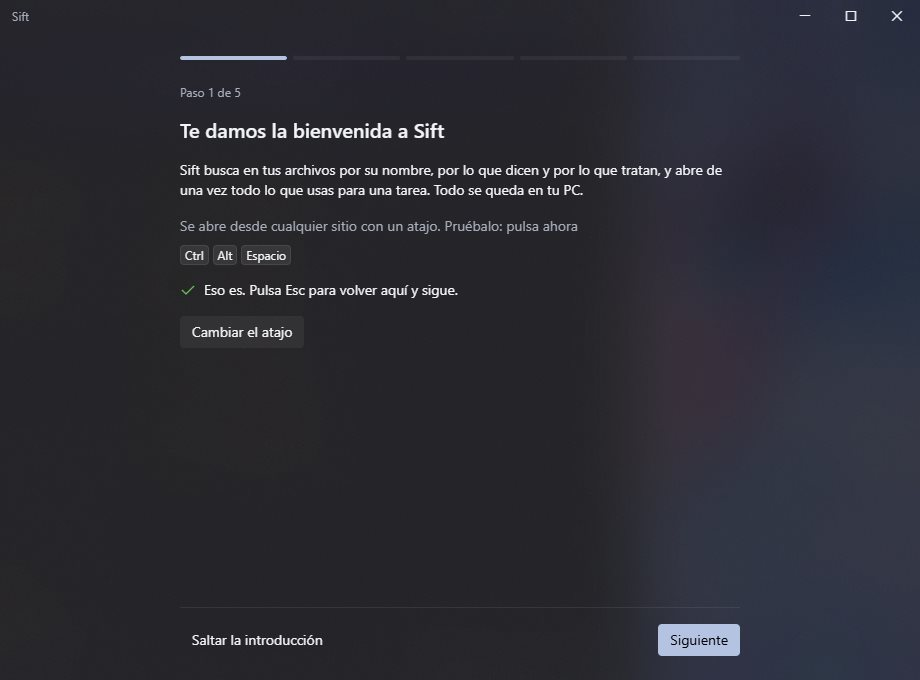
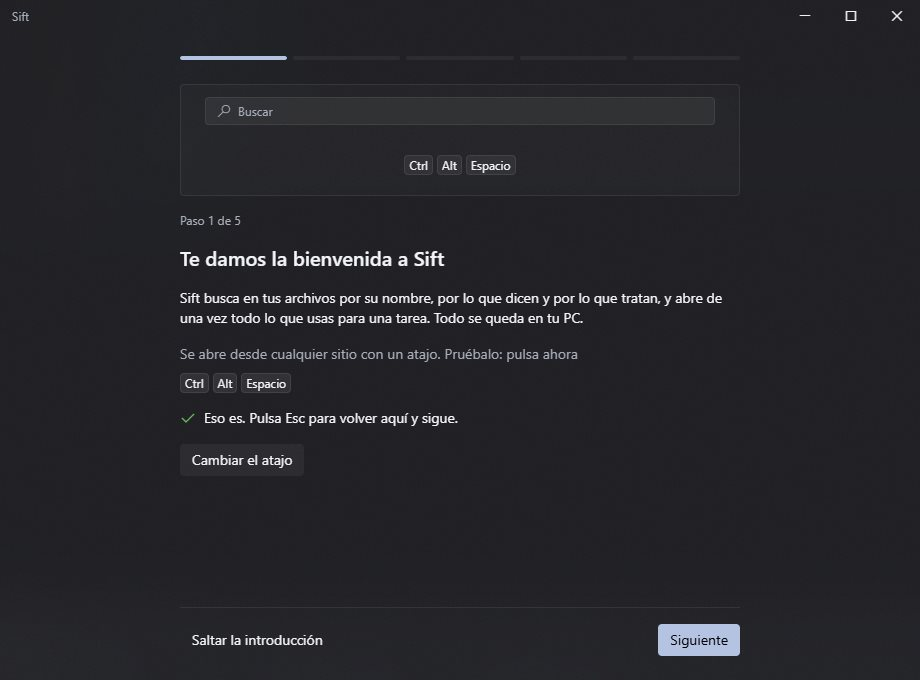
feat: one short illustration per intro step, played once

Changed region(s): [[0.7, 0.0, 1.0, 1.0], [0.1826, 0.1235, 0.7913, 0.6485], [0.213, 0.6485, 0.3043, 0.6794]]

diff --git a/apps/desktop/src/settings/IntroArt.tsx b/apps/desktop/src/settings/IntroArt.tsx
@@ -1,0 +1,182 @@
+// Una ilustración corta por paso de la introducción (FEEDBACK 2026-11-19, 6c): se ve una
+// vez al entrar en el paso (menos de 1,6 s) y se queda en su último fotograma. Solo
+// opacidad y transformaciones; con «reducir movimiento», directamente el último fotograma.
+// Es decorativa (`aria-hidden`): lo que cuenta ya lo dicen el título y el texto.
+
+import { useEffect, useState, type CSSProperties } from "react";
+import { Glyph } from "../components/Glyph";
+import type { IntroStepId } from "./introSteps";
+
+/** Retraso de cada pieza, en ms (`--d` en `.sift-art`). */
+const at = (ms: number) => ({ "--d": `${ms}ms` }) as CSSProperties;
+
+function reducedMotion(): boolean {
+  return (
+    typeof window !== "undefined" &&
+    typeof window.matchMedia === "function" &&
+    window.matchMedia("(prefers-reduced-motion: reduce)").matches
+  );
+}
+
+/**
+ * Recorre `frames` uno a uno: el segundo a los `delay` ms y los demás cada `every` ms.
+ * Con «reducir movimiento», el último desde el principio.
+ */
+export function useTicker<T>(
+  frames: T[],
+  delay: number,
+  every: number,
+): T | undefined {
+  const [i, setI] = useState(() => (reducedMotion() ? frames.length - 1 : 0));
+  useEffect(() => {
+    if (reducedMotion()) return;
+    const timers = frames
+      .slice(1)
+      .map((_, k) => setTimeout(() => setI(k + 1), delay + k * every));
+    return () => timers.forEach(clearTimeout);
+    // Los fotogramas son fijos para cada paso: solo se reproduce al montar.
+    // eslint-disable-next-line react-hooks/exhaustive-deps
+  }, []);
+  return frames[i];
+}
+
+/** Paso 1: las teclas del atajo se hunden por turnos y baja la barra. */
+function HotkeyArt({ keys }: { keys: string[] }) {
+  return (
+    <>
+      <div
+        className="sift-art-drop absolute inset-x-6 top-3 flex h-7 items-center gap-2 rounded-item border border-line bg-hover px-3 text-xs text-muted"
+        style={at(750)}
+      >
+        <Glyph name="search" className="text-xs" />
+        Buscar
+      </div>
+      <div className="absolute inset-x-0 bottom-5 flex justify-center gap-1">
+        {keys.map((k, i) => (
+          <kbd
+            key={i}
+            className="sift-key sift-art-press"
+            style={at(100 + i * 150)}
+          >
+            {k}
+          </kbd>
+        ))}
+      </div>
+    </>
+  );
+}
+
+const COUNT = [0, 96, 241, 418, 655, 902, 1103, 1284].map(
+  (n) => `${n.toLocaleString("es-ES")} archivos`,
+);
+
+/** Paso 2: tres carpetas llegan volando y sube el contador. */
+function FoldersArt() {
+  const count = useTicker(COUNT, 300, 120);
+  return (
+    <>
+      <div className="absolute inset-y-0 left-8 flex items-center gap-6 text-xl text-accent-ink">
+        {[0, 1, 2].map((i) => (
+          <span key={i} className="sift-art-fly" style={at(100 + i * 200)}>
+            <Glyph name="folder" className="text-2xl" />
+          </span>
+        ))}
+      </div>
+      <span className="absolute right-5 bottom-4 text-sm tabular-nums">
+        {count}
+      </span>
+    </>
+  );
+}
+
+const WORD = "factura";
+const TYPED = Array.from({ length: WORD.length + 1 }, (_, i) =>
+  WORD.slice(0, i),
+);
+
+/** Paso 3: se escribe «factura» y caen tres resultados. */
+function SearchArt() {
+  const typed = useTicker(TYPED, 150, 90);
+  return (
+    <>
+      <div className="absolute inset-x-6 top-3 flex h-7 items-center gap-2 rounded-item border border-line bg-hover px-3 text-xs">
+        <Glyph name="search" className="text-xs text-muted" />
+        {typed}
+      </div>
+      {[0, 1, 2].map((i) => (
+        <div
+          key={i}
+          className="sift-art-fall absolute left-6 h-3 rounded-[2px] bg-selected"
+          style={{ ...at(900 + i * 150), top: 52 + i * 20, right: 24 + i * 40 }}
+        />
+      ))}
+    </>
+  );
+}
+
+/** Paso 4: una línea une «viaje» con «billetes de tren.pdf». */
+function SmartArt() {
+  return (
+    <div className="absolute inset-0 flex items-center justify-center gap-2 text-sm">
+      <span>«viaje»</span>
+      <span
+        className="sift-art-grow h-0.5 w-12 origin-left bg-accent"
+        style={at(500)}
+      />
+      <span
+        className="sift-art-fade flex items-center gap-1 rounded-item bg-selected px-2 py-1 text-xs"
+        style={at(1000)}
+      >
+        <Glyph name="document" className="text-xs" />
+        billetes de tren.pdf
+      </span>
+    </div>
+  );
+}
+
+/** Paso 5: la tarjeta de un Espacio se abre en tres ventanas colocadas. */
+function SpaceArt() {
+  return (
+    <>
+      <div className="absolute inset-0 flex items-center justify-center">
+        <div
+          className="sift-art-open flex items-center gap-2 rounded-item border border-line bg-hover px-3 py-1.5 text-xs"
+          style={at(200)}
+        >
+          <Glyph name="apps" className="text-xs" />
+          Trabajo
+        </div>
+      </div>
+      <div className="absolute inset-2 grid grid-cols-2 grid-rows-2 gap-2">
+        <span
+          className="sift-art-window-l row-span-2 rounded-[4px] border border-accent bg-selected"
+          style={at(550)}
+        />
+        <span
+          className="sift-art-window-r rounded-[4px] border border-accent bg-selected"
+          style={at(700)}
+        />
+        <span
+          className="sift-art-window-r rounded-[4px] border border-accent bg-selected"
+          style={at(850)}
+        />
+      </div>
+    </>
+  );
+}
+
+export function IntroArt({ id, keys }: { id: IntroStepId; keys: string[] }) {
+  return (
+    <div
+      aria-hidden
+      data-art={id}
+      className="sift-art relative h-28 overflow-hidden rounded-item border border-line bg-hover/40"
+    >
+      {id === "hotkey" && <HotkeyArt keys={keys} />}
+      {id === "folders" && <FoldersArt />}
+      {id === "search" && <SearchArt />}
+      {id === "smart" && <SmartArt />}
+      {id === "space" && <SpaceArt />}
+    </div>
+  );
+}

diff --git a/apps/desktop/src/index.css b/apps/desktop/src/index.css
@@ -73,6 +73,7 @@
   --dur-veil-out: 260ms;
   --dur-enter: 120ms;
   --dur-step: 200ms; /* cambio de paso en la introducción */
+  --dur-art: 350ms; /* cada pieza de las ilustraciones de la introducción */
   --stagger: 70ms; /* entre la explicación y la acción de un paso, tras el título */
   --dur-state: 150ms; /* cambios de estado: coger, soltar, pasar el ratón, pulsar (el «fast» de Fluent) */
   --dur-exit: 80ms;
@@ -400,6 +401,81 @@ body,
   }
 }
 
+/*
+ * Ilustraciones de la introducción (IntroArt.tsx): cada pieza entra una vez con su retraso
+ * (`--d`) y se queda en su sitio. Solo opacidad y transformaciones.
+ */
+.sift-art [class*="sift-art-"] {
+  animation-duration: var(--dur-art);
+  animation-timing-function: var(--ease-enter);
+  animation-fill-mode: both;
+  animation-delay: var(--d, 0ms);
+}
+.sift-art-press {
+  animation-name: sift-art-press;
+}
+.sift-art-drop {
+  animation-name: sift-art-drop;
+}
+.sift-art-fly {
+  animation-name: sift-art-fly;
+}
+.sift-art-fall {
+  animation-name: sift-art-drop;
+}
+.sift-art-grow {
+  animation-name: sift-fill;
+}
+.sift-art-fade {
+  animation-name: sift-exit;
+  animation-direction: reverse;
+}
+.sift-art-open {
+  animation-name: sift-art-open;
+}
+.sift-art-window-l {
+  animation-name: sift-art-window-l;
+}
+.sift-art-window-r {
+  animation-name: sift-art-window-r;
+}
+@keyframes sift-art-press {
+  50% {
+    transform: translateY(2px);
+    background: var(--selected);
+  }
+}
+@keyframes sift-art-drop {
+  from {
+    opacity: 0;
+    transform: translateY(-8px);
+  }
+}
+@keyframes sift-art-fly {
+  from {
+    opacity: 0;
+    transform: translateX(-120px);
+  }
+}
+@keyframes sift-art-open {
+  to {
+    opacity: 0;
+    transform: scale(0.8);
+  }
+}
+@keyframes sift-art-window-l {
+  from {
+    opacity: 0;
+    transform: translateX(40%) scale(0.3);
+  }
+}
+@keyframes sift-art-window-r {
+  from {
+    opacity: 0;
+    transform: translateX(-40%) scale(0.3);
+  }
+}
+
 @keyframes sift-step-next {
   from {
     opacity: 0;
@@ -478,8 +554,13 @@ body,
   .sift-fill,
   .sift-pop,
   .sift-progress,
-  .sift-stagger > * {
+  .sift-stagger > *,
+  .sift-art [class*="sift-art-"] {
     animation: none;
+  }
+  /* El último fotograma: la tarjeta del Espacio ya se ha abierto en ventanas. */
+  .sift-art-open {
+    opacity: 0;
   }
   .sift-option.sift-option-soft,
   .sift-pressed .sift-key {

diff --git a/apps/desktop/src/settings/IntroArt.test.tsx b/apps/desktop/src/settings/IntroArt.test.tsx
@@ -1,0 +1,53 @@
+// @vitest-environment jsdom
+//
+// Las ilustraciones de la introducción: decorativas, una por paso, y con «reducir
+// movimiento» enseñan directamente su último fotograma.
+
+import "@testing-library/jest-dom/vitest";
+import { act, cleanup, render } from "@testing-library/react";
+import { afterEach, describe, expect, it, vi } from "vitest";
+import { IntroArt } from "./IntroArt";
+import { INTRO_STEPS } from "./introSteps";
+
+function reduce(on: boolean) {
+  window.matchMedia = vi.fn().mockReturnValue({ matches: on }) as never;
+}
+
+afterEach(() => {
+  cleanup();
+  vi.useRealTimers();
+});
+
+describe("IntroArt", () => {
+  it.each(INTRO_STEPS.map((s) => s.id))(
+    "el paso %s tiene su ilustración, oculta al lector de pantalla",
+    (id) => {
+      reduce(false);
+      const { container } = render(
+        <IntroArt id={id} keys={["Ctrl", "Alt", "Espacio"]} />,
+      );
+      const art = container.querySelector(`[data-art="${id}"]`);
+      expect(art).toHaveAttribute("aria-hidden");
+      expect(art?.childElementCount).toBeGreaterThan(0);
+    },
+  );
+
+  it("el texto se escribe solo y el contador sube hasta el final", () => {
+    vi.useFakeTimers();
+    reduce(false);
+    const search = render(<IntroArt id="search" keys={[]} />);
+    expect(search.container.textContent).not.toContain("factura");
+    act(() => void vi.advanceTimersByTime(2000));
+    expect(search.container.textContent).toContain("factura");
+    const folders = render(<IntroArt id="folders" keys={[]} />);
+    expect(folders.container.textContent).toContain("0 archivos");
+    act(() => void vi.advanceTimersByTime(2000));
+    expect(folders.container.textContent).toContain("1284 archivos");
+  });
+
+  it("con «reducir movimiento», el último fotograma desde el principio", () => {
+    reduce(true);
+    const { container } = render(<IntroArt id="search" keys={[]} />);
+    expect(container.textContent).toContain("factura");
+  });
+});

diff --git a/apps/desktop/src/settings/Intro.tsx b/apps/desktop/src/settings/Intro.tsx
@@ -6,6 +6,7 @@
 import { useEffect, useRef, useState } from "react";
 import { commands, events, type FileHit, type RootView } from "../bindings";
 import { Glyph } from "../components/Glyph";
+import { IntroArt } from "./IntroArt";
 import { Keycap, Shortcut } from "../components/Keycap";
 import { shortFolder } from "../launcher/files";
 import { Highlighted } from "../launcher/panels";
@@ -103,6 +104,7 @@ export function Intro({
             direction === "forward" ? "sift-step-next" : "sift-step-back"
           }`}
         >
+          <IntroArt id={id} keys={hotkeyText(hotkey).split("+")} />
           <p className="text-xs text-muted">
             Paso {step + 1} de {INTRO_STEPS.length}
           </p>

diff --git a/apps/desktop/src/components/Glyph.tsx b/apps/desktop/src/components/Glyph.tsx
@@ -21,6 +21,10 @@ export const GLYPHS = {
   dash: "", // Remove
   sync: "", // Sync
   enter: "", // ReturnKey
+  folder: "", // Folder (E8B7 en MDL2 es otra cosa)
+  document: "", // Page
+  search: "", // Search
+  apps: "", // Tiles
 } as const;
 
 export type GlyphName = keyof typeof GLYPHS;

diff --git a/docs/design-system.md b/docs/design-system.md
@@ -109,7 +109,7 @@ Con "reducir movimiento" no hay ninguna de estas transiciones.
 - **`Select`** (`src/settings/ui.tsx`): desplegable nativo de Windows con el aspecto de `TextInput` (`.sift-field` y `bg-hover`), así que sigue el tema por `color-scheme`. Sirve para elegir entre pocas opciones. El teclado es el del control nativo.
 - **Campo de ruta con sugerencias** (`src/settings/PathField.tsx`; la regla de cuándo sugerir, en `src/settings/pathSuggest.ts`): mientras escribes un nombre de al menos dos letras, propone archivos y carpetas del índice que encajan. La lista es `.sift-glass` con `.sift-option`: ↑/↓ se mueven, Enter elige y Esc cierra la lista sin cerrar el editor. Las rutas completas («C:\…») no se sugieren, y «Elegir…» abre el diálogo de Windows para lo que no está indexado.
 - **Icono** ([ADR 0017](adr/0017-icono.md)): «el tamiz». Son tres barras que se estrechan sobre el cuadrado oscuro de Vidrio, con la última en el acento por defecto (`#60CDFF`). En la bandeja va de un solo color: blanco o casi negro según el tema de la barra de tareas. Fuentes en `src-tauri/icons/source/`.
-- **Introducción guiada** (`src/settings/Intro.tsx`, pasos y lógica en `introSteps.ts`): la primera vez ocupa la ventana de Ajustes sin navegación; se repite desde Primeros pasos («Ver la introducción otra vez»). Columna de 560 px: arriba, 5 segmentos de progreso (4 px, `bg-hover`; hechos y actual en `bg-accent`, el actual se llena con `.sift-fill`); «Paso N de 5» (12, `text-muted`) y el título (20 seminegrita, recibe el foco y se anuncia «Paso 2 de 5: Dónde buscar»); abajo, «Saltar la introducción» (fantasma) a la izquierda y «Atrás» / «Siguiente» (o «Empezar») a la derecha. Movimiento: cada paso entra con `.sift-step-next` o `.sift-step-back` (opacidad y 16 px en horizontal, `--dur-step` 200 ms, *decelerate*); dentro del paso, el orden es título → explicación (14, `text-fg`) → acción, y lo que va bajo el título entra escalonado con `.sift-stagger` (opacidad y 4 px, `--stagger` 70 ms entre uno y otro); cada logro (✓) con `.sift-pop` (escala 0,9 → 1, 150 ms); las teclas del atajo «se hunden» 1 px al detectar la pulsación (`.sift-pressed`). Nada se anima con «reducir movimiento».
+- **Introducción guiada** (`src/settings/Intro.tsx`, pasos y lógica en `introSteps.ts`): la primera vez ocupa la ventana de Ajustes sin navegación; se repite desde Primeros pasos («Ver la introducción otra vez»). Columna de 560 px: arriba, 5 segmentos de progreso (4 px, `bg-hover`; hechos y actual en `bg-accent`, el actual se llena con `.sift-fill`); «Paso N de 5» (12, `text-muted`) y el título (20 seminegrita, recibe el foco y se anuncia «Paso 2 de 5: Dónde buscar»); abajo, «Saltar la introducción» (fantasma) a la izquierda y «Atrás» / «Siguiente» (o «Empezar») a la derecha. Movimiento: cada paso entra con `.sift-step-next` o `.sift-step-back` (opacidad y 16 px en horizontal, `--dur-step` 200 ms, *decelerate*); dentro del paso, el orden es título → explicación (14, `text-fg`) → acción, y lo que va bajo el título entra escalonado con `.sift-stagger` (opacidad y 4 px, `--stagger` 70 ms entre uno y otro); encima de «Paso N de 5», una ilustración por paso (`IntroArt.tsx`, franja de 112 px con `border-line` y `bg-hover/40`, `aria-hidden`): se ve una vez al entrar, en menos de 1,6 s, y se queda en su último fotograma (teclas que se hunden y la barra que baja; carpetas que llegan y un contador; «factura» que se escribe y resultados que caen; una línea de «viaje» a «billetes de tren.pdf»; un Espacio que se abre en tres ventanas). Cada pieza dura `--dur-art` (350 ms) con su retraso en `--d`; solo opacidad y transformaciones; con «reducir movimiento», el último fotograma; cada logro (✓) con `.sift-pop` (escala 0,9 → 1, 150 ms); las teclas del atajo «se hunden» 1 px al detectar la pulsación (`.sift-pressed`). Nada se anima con «reducir movimiento».
 - **Tarjetas de estado** (`src/settings/StatusSection.tsx`, textos en `statusCards.ts`): Ajustes → Estado. Una frase arriba («Todo va bien.») y una rejilla de 2 columnas (1 en ventanas estrechas) con una tarjeta por cosa que importa a quien usa Sift: atajo, carpetas, búsqueda inteligente y tus datos. Cada tarjeta: `rounded-item`, `border-line`, `bg-hover/40`, `p-4`; icono de estado de 24 px (✓ `text-success` bien; sincronizar `text-accent-ink` en marcha; aviso `text-accent-ink`; aviso `text-danger` problema; guion `text-muted` apagado), título 14 seminegrita y detalle 12 `text-muted`. El icono lleva nombre para el lector de pantalla y el título ya dice lo mismo: el color nunca va solo. Lo técnico (motor del atajo, material, tiempos p50/p95, vigilancia, lector de PDF), en «Avanzado» plegado.
 - **Miniaturas de zonas para colocar ventanas** (`src/settings/PlacementEditor.tsx`, datos en `src/settings/zones.ts`): radios en filas con su nombre a la izquierda (12, `text-muted`): General («No colocar», con la miniatura vacía y un guion, y toda la pantalla), Mitades, Tercios y Cuartos. Cada uno es una miniatura de 44 × 28 px con la zona en `bg-accent`. **Plegado** si ya hay una posición elegida: una línea, «Posición: Mitad derecha · Pantalla 2» (o «No colocar»; «· usar la ya abierta» si está marcada), con el botón «Cambiar»; desplegado, «Listo» lo vuelve a plegar. Debajo de las miniaturas, «Posición seleccionada: Mitad derecha» (14 seminegrita, `aria-live`). Con una zona, el desplegable «Pantalla» como en Configuración de Windows: el número que da Windows y el modelo («Pantalla 1 — DELL U2720Q (principal)», «Donde esté el ratón»), y a su lado «Identificar», que enseña 3 s el número en cada pantalla (`identify.html`, `.sift-identify`: número de 128 px sobre `--surface-solid` con borde de 4 px `--accent`). La casilla «Si ya está abierta, usar esa en vez de abrir otra» se ve siempre, también con «No colocar». Son botones con `role="radio"` y se recorren con Tab: no tienen flechas.
 - **Editor de esperas** (`src/settings/WaitEditor.tsx`): el paso «Esperar a que…» de un Espacio. Un desplegable elige qué se espera (una web, un servicio, el fin del comando anterior o unos segundos) y muestra solo el campo que hace falta, con su ayuda en lenguaje normal. Solo las esperas de web y de servicio se pueden probar con «Probar» (lo decide `canCheckNow`).

diff --git a/FEEDBACK.md b/FEEDBACK.md
@@ -158,7 +158,7 @@ Formato: fecha, qué pasa o qué falta, y a dónde va.
 ### 6. Introducción
 - [x] ✅ Las barritas de progreso se quedan.
 - [x] ✅ **Resuelto** (`feat/intro-jerarquia`: la explicación va en texto normal y la acción en su propio bloque; lo de debajo del título entra escalonado, 70 ms entre uno y otro, nada con «reducir movimiento»). Jerarquía: en el paso 1 el ojo salta del título a «Se abre desde cualquier sitio…» y se salta la explicación. Orden natural en todos los pasos (título, explicación, acción), con el texto escalonado tras el título.
-- [ ] ⏳ Más vida: una animación ilustrativa por paso, una sola vez, rápida, coherente con Vidrio y nada con «reducir movimiento». Propuesta antes de implementarla.
+- [x] ✅ **Resuelto** (`feat/intro-animaciones`, propuesta aprobada: una ilustración por paso, una vez, < 1,6 s; último fotograma con «reducir movimiento»). Más vida: una animación ilustrativa por paso, una sola vez, rápida, coherente con Vidrio y nada con «reducir movimiento». Propuesta antes de implementarla.
 
 ### 7. Indicador de carga propio
 - [ ] ⏳ Con la identidad de Sift (el tamiz con sus barras abriéndose y cerrándose) para el primer indexado, la descarga de la búsqueda inteligente y la vista previa si tarda. Versión estática o con pulso suave con «reducir movimiento». Un componente, documentado en Vidrio.
